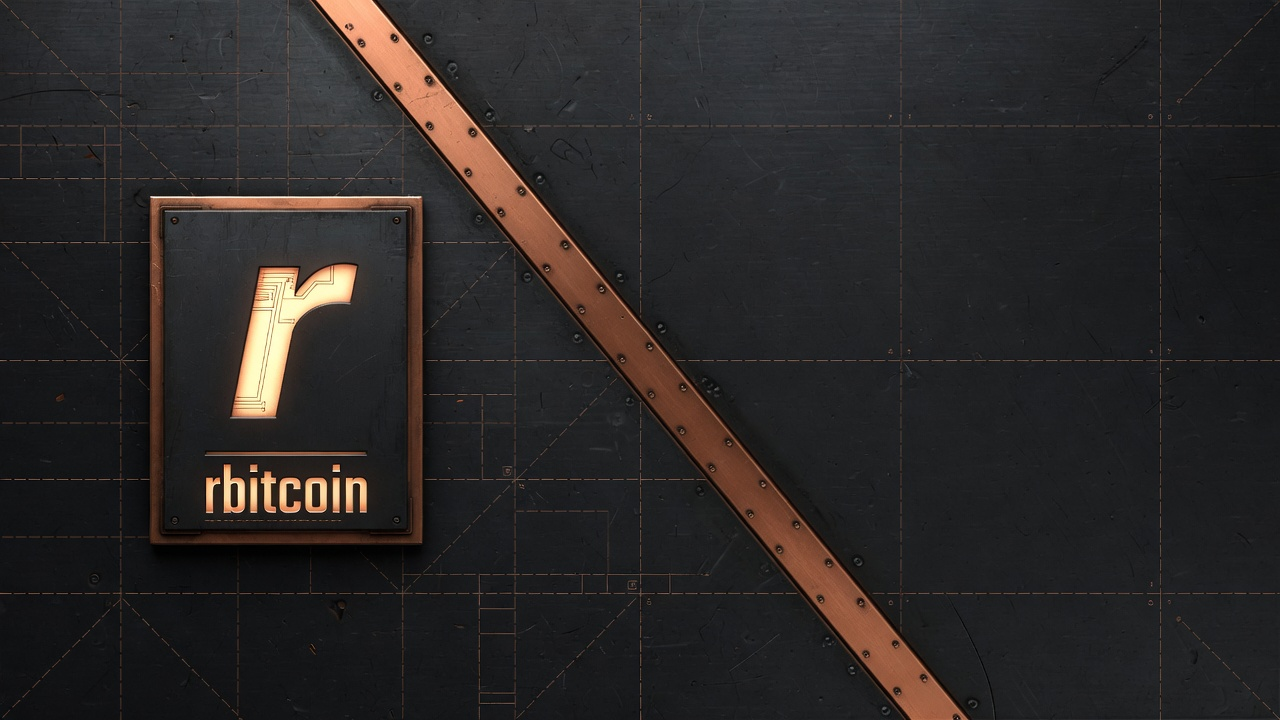
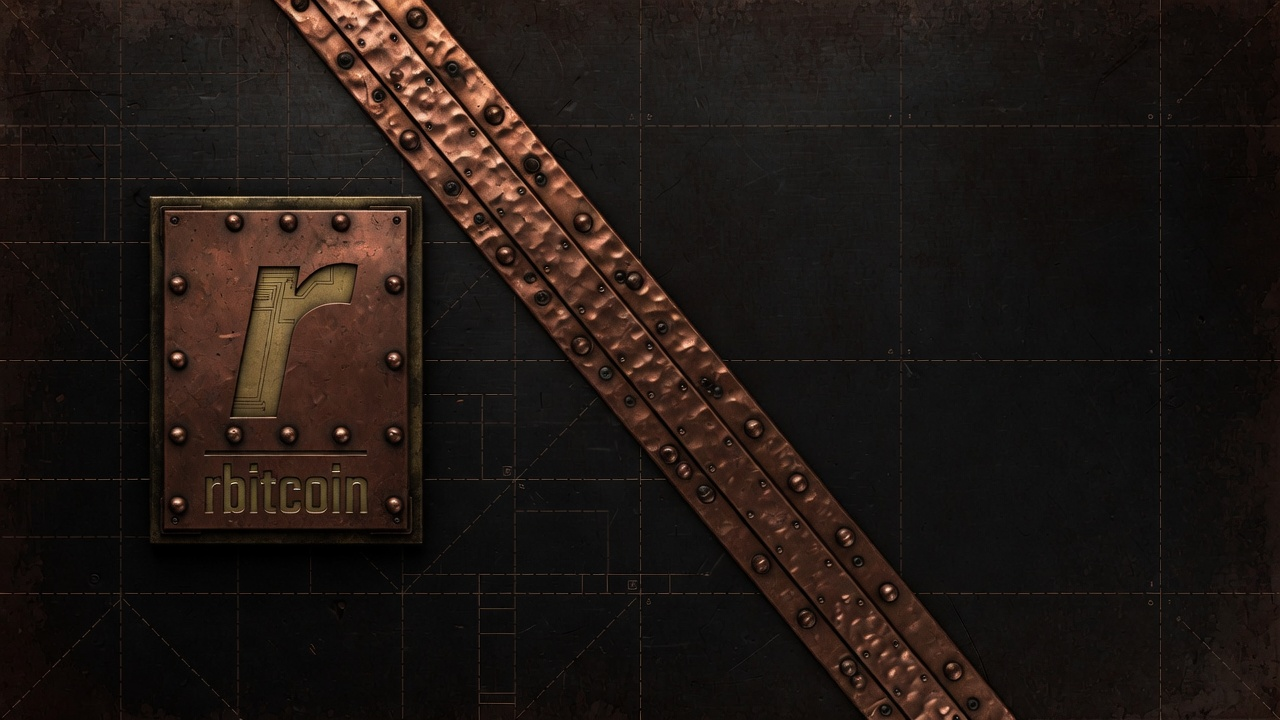
Polish riveted plates and deeper-copper OG image
Four-corner card rivets, patina pipeline panel, and refreshed share
image aligned with the steampunk palette.

diff --git a/public/assets/css/main.css b/public/assets/css/main.css
@@ -156,7 +156,7 @@ button:focus-visible,
   z-index: 100;
   padding: 0.5rem 1rem;
   background: var(--copper);
-  color: #0c0e10;
+  color: #f2e6d4;
   font-weight: 600;
   border-radius: var(--radius-sm);
   text-decoration: none;
